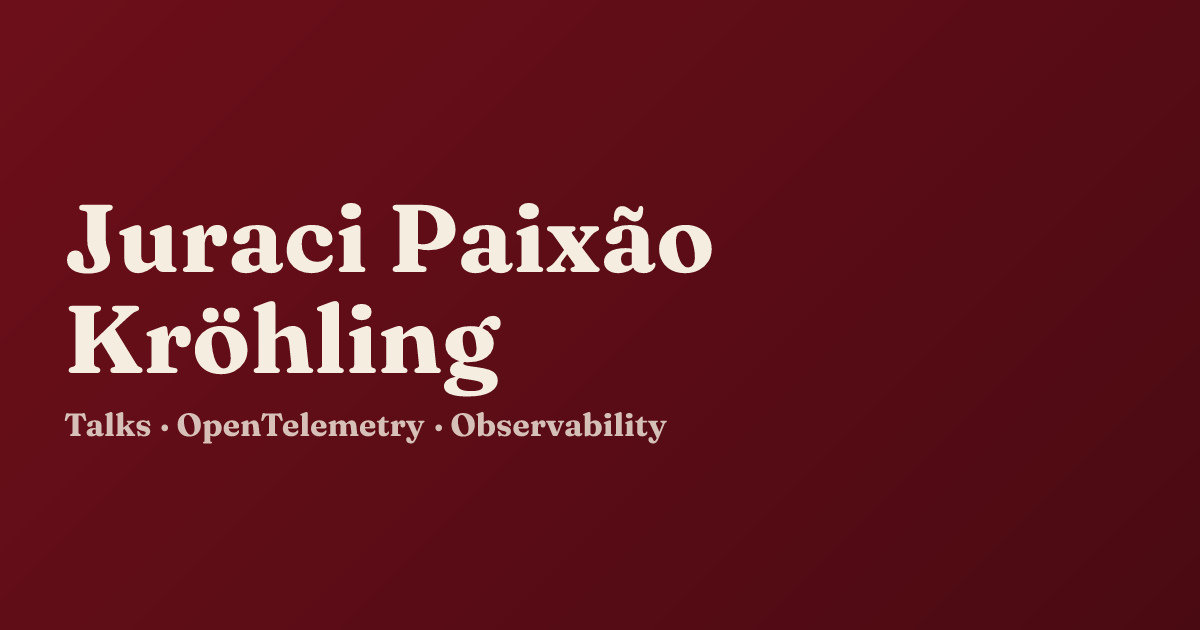
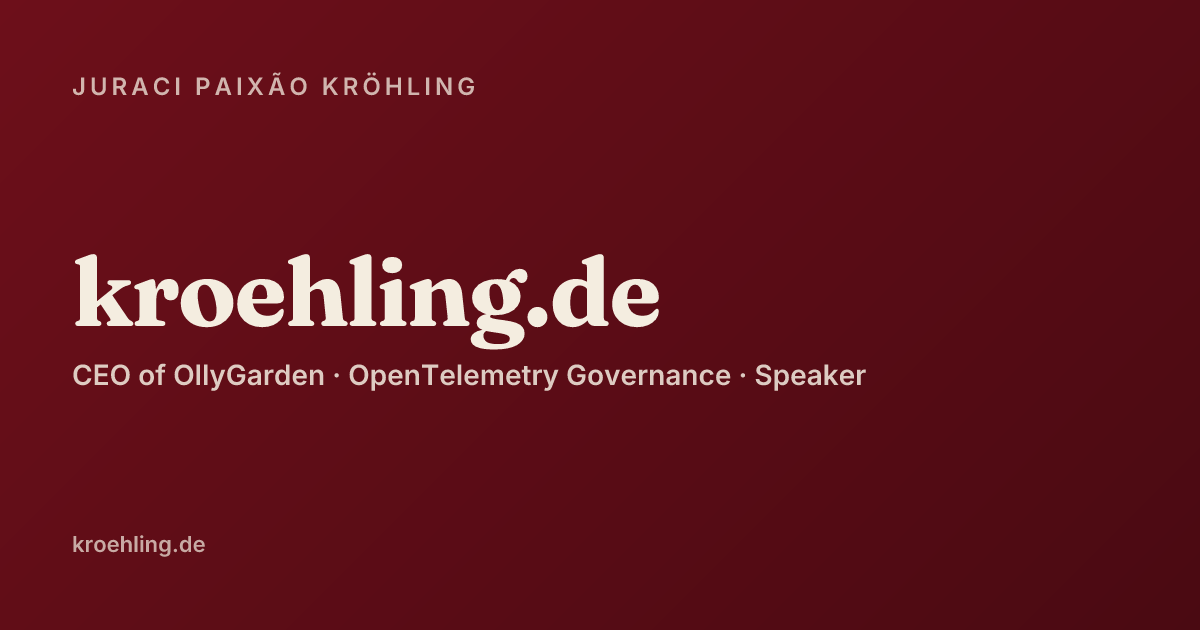
feat(website): SEO pass — per-page OG images + richer meta surface
OG images:
- generate-default-og.ts now produces 7 PNGs (default + one per fixed
  page: home, cv, talks, projects, press, badges). Each uses a distinct
  headline + tagline on the bordeaux gradient.
- Page pngs are committed to public/og/ so CI doesn't need Fontsource
  network access; per-talk PNGs stay gitignored and are regenerated.
- lib/og-url.ts: added pageOgUrl() helper.
- index.astro, cv.astro, projects.astro, press.astro, badges.astro and
  talks/index.astro wire their own OG image.

BaseLayout meta upgrades:
- New props: ogType ('website' | 'article' | 'profile'), publishedTime,
  tags. Emits article:published_time, article:author, and article:tag
  only when ogType === 'article'.
- Adds og:site_name, og:image:alt, meta[name="robots"]="index, follow",
  and explicit twitter:title/twitter:description/twitter:image mirrors
  so Twitter cards don't depend solely on og fallback.

Talk pages set ogType="article" + publishedTime + tags.

llms.txt now lists /cv/ alongside the other top-level pages.

Changed region(s): [[0.0308, 0.3016, 0.74, 0.6937], [0.0617, 0.1206, 0.4008, 0.1508], [0.0617, 0.8444, 0.185, 0.8746]]

diff --git a/website/scripts/generate-default-og.ts b/website/scripts/generate-default-og.ts
@@ -4,7 +4,7 @@ import { join } from 'node:path';
 import { Resvg } from '@resvg/resvg-js';
 import satori from 'satori';
 
-const OUT = join(import.meta.dir, '..', 'public', 'og', 'default.png');
+const OUT_DIR = join(import.meta.dir, '..', 'public', 'og');
 
 async function loadFont(url: string): Promise<ArrayBuffer> {
   const res = await fetch(url);
@@ -15,46 +15,146 @@ async function loadFont(url: string): Promise<ArrayBuffer> {
 const fraunces = await loadFont(
   'https://raw.githubusercontent.com/fontsource/font-files/main/fonts/google/fraunces/files/fraunces-latin-700-normal.woff',
 );
+const inter = await loadFont(
+  'https://raw.githubusercontent.com/fontsource/font-files/main/fonts/google/inter/files/inter-latin-600-normal.woff',
+);
 
-const tree = {
-  type: 'div',
-  props: {
-    style: {
-      width: '1200px',
-      height: '630px',
-      background: 'linear-gradient(135deg, #6D0F1A, #4A0A12)',
-      color: '#F4EDE0',
-      display: 'flex',
-      flexDirection: 'column',
-      justifyContent: 'center',
-      padding: 64,
-      fontFamily: 'Fraunces',
-    },
-    children: [
-      {
-        type: 'div',
-        props: {
-          style: { fontSize: 96, fontWeight: 700, lineHeight: 1.05 },
-          children: 'Juraci Paixão Kröhling',
-        },
-      },
-      {
-        type: 'div',
-        props: {
-          style: { fontSize: 32, opacity: 0.8, marginTop: 16 },
-          children: 'Talks · OpenTelemetry · Observability',
-        },
-      },
-    ],
+interface PageOg {
+  name: string; // filename (no extension)
+  eyebrow: string; // top label
+  headline: string; // big headline
+  tagline: string; // secondary line
+}
+
+const PAGES: PageOg[] = [
+  {
+    name: 'default',
+    eyebrow: 'Juraci Paixão Kröhling',
+    headline: 'kroehling.de',
+    tagline: 'CEO of OllyGarden · OpenTelemetry Governance · Speaker',
   },
-};
+  {
+    name: 'home',
+    eyebrow: 'Juraci Paixão Kröhling',
+    headline: 'Observability is a garden.',
+    tagline: 'CEO of OllyGarden · OpenTelemetry Governance',
+  },
+  {
+    name: 'cv',
+    eyebrow: 'Juraci Paixão Kröhling',
+    headline: 'Curriculum Vitae',
+    tagline: 'Experience · Patents · Publications · Education',
+  },
+  {
+    name: 'talks',
+    eyebrow: 'Juraci Paixão Kröhling',
+    headline: '62 conference talks',
+    tagline: 'KubeCon · FOSDEM · GopherCon · DevOpsDays · Devoxx',
+  },
+  {
+    name: 'projects',
+    eyebrow: 'Juraci Paixão Kröhling',
+    headline: 'Projects & Affiliations',
+    tagline: 'OllyGarden · OpenTelemetry · Jaeger · OCB · OTel Operator',
+  },
+  {
+    name: 'press',
+    eyebrow: 'Juraci Paixão Kröhling',
+    headline: 'Press & Media Kit',
+    tagline: 'Bios (EN · DE · PT) · Headshots · One-liner',
+  },
+  {
+    name: 'badges',
+    eyebrow: 'Juraci Paixão Kröhling',
+    headline: 'Verified Badges',
+    tagline: 'Credly · OpenTelemetry · Kubernetes · Cloud Native',
+  },
+];
 
-// biome-ignore lint/suspicious/noExplicitAny: satori accepts a custom vdom shape
-const svg = await satori(tree as any, {
-  width: 1200,
-  height: 630,
-  fonts: [{ name: 'Fraunces', data: fraunces, weight: 700, style: 'normal' }],
-});
-await mkdir(join(import.meta.dir, '..', 'public', 'og'), { recursive: true });
-await writeFile(OUT, new Resvg(svg).render().asPng());
-console.log(`Wrote ${OUT}`);
+function buildTree(page: PageOg) {
+  return {
+    type: 'div',
+    props: {
+      style: {
+        width: '1200px',
+        height: '630px',
+        background: 'linear-gradient(135deg, #6D0F1A 0%, #4A0A12 100%)',
+        color: '#F4EDE0',
+        display: 'flex',
+        flexDirection: 'column',
+        justifyContent: 'space-between',
+        padding: 72,
+        fontFamily: 'Inter',
+      },
+      children: [
+        {
+          type: 'div',
+          props: {
+            style: {
+              fontSize: 24,
+              letterSpacing: 4,
+              textTransform: 'uppercase',
+              opacity: 0.75,
+            },
+            children: page.eyebrow,
+          },
+        },
+        {
+          type: 'div',
+          props: {
+            style: { display: 'flex', flexDirection: 'column', gap: 16 },
+            children: [
+              {
+                type: 'div',
+                props: {
+                  style: {
+                    fontFamily: 'Fraunces',
+                    fontSize: 96,
+                    fontWeight: 700,
+                    lineHeight: 1.05,
+                    letterSpacing: '-0.02em',
+                  },
+                  children: page.headline,
+                },
+              },
+              {
+                type: 'div',
+                props: {
+                  style: { fontSize: 28, opacity: 0.85 },
+                  children: page.tagline,
+                },
+              },
+            ],
+          },
+        },
+        {
+          type: 'div',
+          props: {
+            style: { fontSize: 22, opacity: 0.7 },
+            children: 'kroehling.de',
+          },
+        },
+      ],
+    },
+  };
+}
+
+async function main() {
+  await mkdir(OUT_DIR, { recursive: true });
+  for (const page of PAGES) {
+    // biome-ignore lint/suspicious/noExplicitAny: satori accepts a custom vdom shape
+    const svg = await satori(buildTree(page) as any, {
+      width: 1200,
+      height: 630,
+      fonts: [
+        { name: 'Fraunces', data: fraunces, weight: 700, style: 'normal' },
+        { name: 'Inter', data: inter, weight: 600, style: 'normal' },
+      ],
+    });
+    const out = join(OUT_DIR, `${page.name}.png`);
+    await writeFile(out, new Resvg(svg).render().asPng());
+    console.log(`Wrote ${out}`);
+  }
+}
+
+await main();

diff --git a/website/src/lib/og-url.ts b/website/src/lib/og-url.ts
@@ -1,11 +1,21 @@
-export function talkOgUrl(slug: string, site: URL): string {
+function ogBase(site: URL): string {
   const origin = site.toString().replace(/\/$/, '');
   const base = import.meta.env.BASE_URL.replace(/\/$/, '');
-  return `${origin}${base}/og/${slug}.png`;
+  return `${origin}${base}/og`;
+}
+
+export function talkOgUrl(slug: string, site: URL): string {
+  return `${ogBase(site)}/${slug}.png`;
 }
 
 export function siteOgUrl(site: URL): string {
-  const origin = site.toString().replace(/\/$/, '');
-  const base = import.meta.env.BASE_URL.replace(/\/$/, '');
-  return `${origin}${base}/og/default.png`;
+  return `${ogBase(site)}/default.png`;
+}
+
+/** Per-page OG image for the fixed top-level pages. Falls back to default. */
+export function pageOgUrl(
+  name: 'home' | 'talks' | 'cv' | 'projects' | 'press' | 'badges',
+  site: URL,
+): string {
+  return `${ogBase(site)}/${name}.png`;
 }

diff --git a/website/src/pages/llms.txt.ts b/website/src/pages/llms.txt.ts
@@ -23,6 +23,7 @@ export async function GET(context: APIContext) {
     `- [Projects](${origin}/projects/): OllyGarden, OpenTelemetry, Telemetry Drops, Jaeger Operator, OTel Operator, OCB, load-balancing exporter; emeritus: OTel Collector, Jaeger`,
   );
   lines.push(`- [Press / media kit](${origin}/press/): 3-language bios, headshots`);
+  lines.push(`- [CV](${origin}/cv/): experience, patents, publications, education`);
   lines.push(`- [Credly badges](${origin}/badges/): verified credentials`);
   lines.push('');
   lines.push('## Topics');
